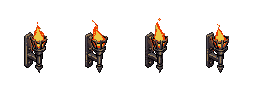
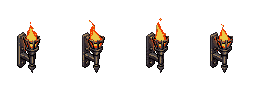
Fix torch animation anchor

diff --git a/frontend/src/game/isometric/IsometricDungeonRenderer.ts b/frontend/src/game/isometric/IsometricDungeonRenderer.ts
@@ -6,7 +6,7 @@ import type {
   ViewportEntity,
 } from "../../lib/types";
 import { latestCombatCue, type CombatAnimationCue } from "./animation";
-import { loadIsometricAssets, type IsometricAssets } from "./assets";
+import { loadIsometricAssets, torchAnimationLayout, type IsometricAssets } from "./assets";
 import {
   depthFor,
   easeOutCubic,
@@ -245,19 +245,23 @@ export class IsometricDungeonRenderer {
 
   private decorationNode(decoration: DungeonDecoration, position: Position, time: number): DepthNode {
     if (decoration.kind === "torch") {
-      const frame = this.options.reducedMotion ? 0 : Math.floor(time / 150) % 4;
+      const frame = this.options.reducedMotion
+        ? 0
+        : Math.floor(time / 150) % torchAnimationLayout.frameCount;
+      const scaleX = torchAnimationLayout.drawWidth / torchAnimationLayout.frameWidth;
+      const scaleY = torchAnimationLayout.drawHeight / torchAnimationLayout.frameHeight;
       return {
         position,
         layer: 35,
         draw: (screen) => this.drawSheetFrame(
           this.assets!.torch,
           frame,
-          64,
-          96,
-          screen.x - 24,
-          screen.y - 39,
-          48,
-          72,
+          torchAnimationLayout.frameWidth,
+          torchAnimationLayout.frameHeight,
+          screen.x - torchAnimationLayout.anchor.x * scaleX,
+          screen.y + TILE_HEIGHT - 1 - torchAnimationLayout.anchor.y * scaleY,
+          torchAnimationLayout.drawWidth,
+          torchAnimationLayout.drawHeight,
         ),
       };
     }

diff --git a/frontend/src/game/isometric/assets.test.ts b/frontend/src/game/isometric/assets.test.ts
@@ -1,6 +1,6 @@
 import { describe, expect, it } from "vitest";
 
-import { isometricAssetPaths } from "./assets";
+import { isometricAssetPaths, torchAnimationLayout } from "./assets";
 
 describe("isometricAssetPaths", () => {
   it("includes the authored environment prop pack", () => {
@@ -9,6 +9,19 @@ describe("isometricAssetPaths", () => {
       barrel: "/assets/isometric/props/barrel.png",
       rubble: "/assets/isometric/props/rubble.png",
       banner: "/assets/isometric/props/banner.png",
+    });
+  });
+});
+
+describe("torchAnimationLayout", () => {
+  it("pins every frame to the bottom spike anchor", () => {
+    expect(torchAnimationLayout).toEqual({
+      frameWidth: 64,
+      frameHeight: 96,
+      frameCount: 4,
+      drawWidth: 48,
+      drawHeight: 72,
+      anchor: { x: 32, y: 72 },
     });
   });
 });

diff --git a/frontend/src/game/isometric/assets.ts b/frontend/src/game/isometric/assets.ts
@@ -17,6 +17,15 @@ export const isometricAssetPaths = {
   magic: "/assets/isometric/effects/magic.png",
 } as const;
 
+export const torchAnimationLayout = {
+  frameWidth: 64,
+  frameHeight: 96,
+  frameCount: 4,
+  drawWidth: 48,
+  drawHeight: 72,
+  anchor: { x: 32, y: 72 },
+} as const;
+
 export type IsometricAssetName = keyof typeof isometricAssetPaths;
 export type IsometricAssets = Record<IsometricAssetName, HTMLImageElement>;
 
